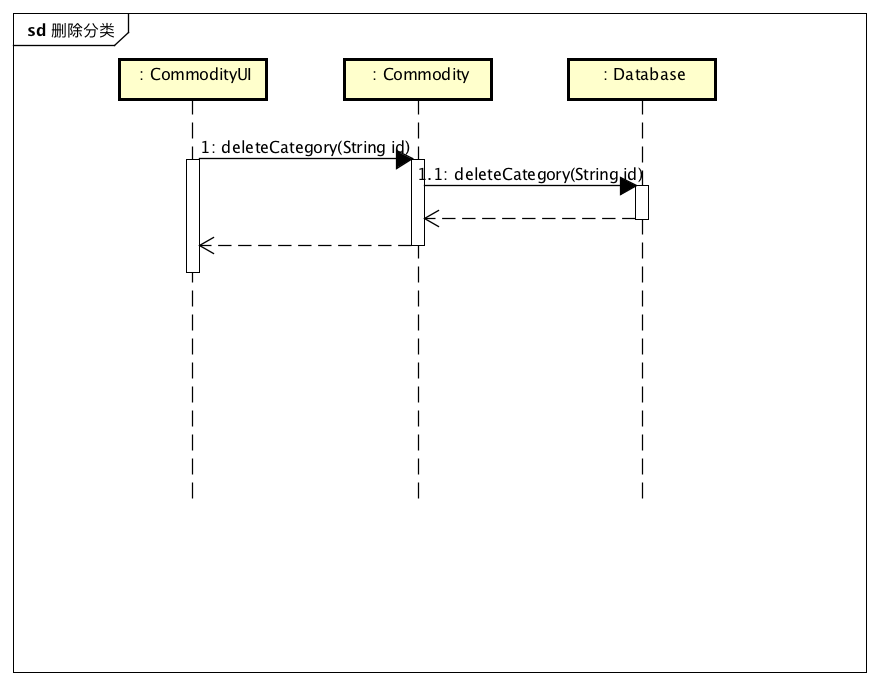
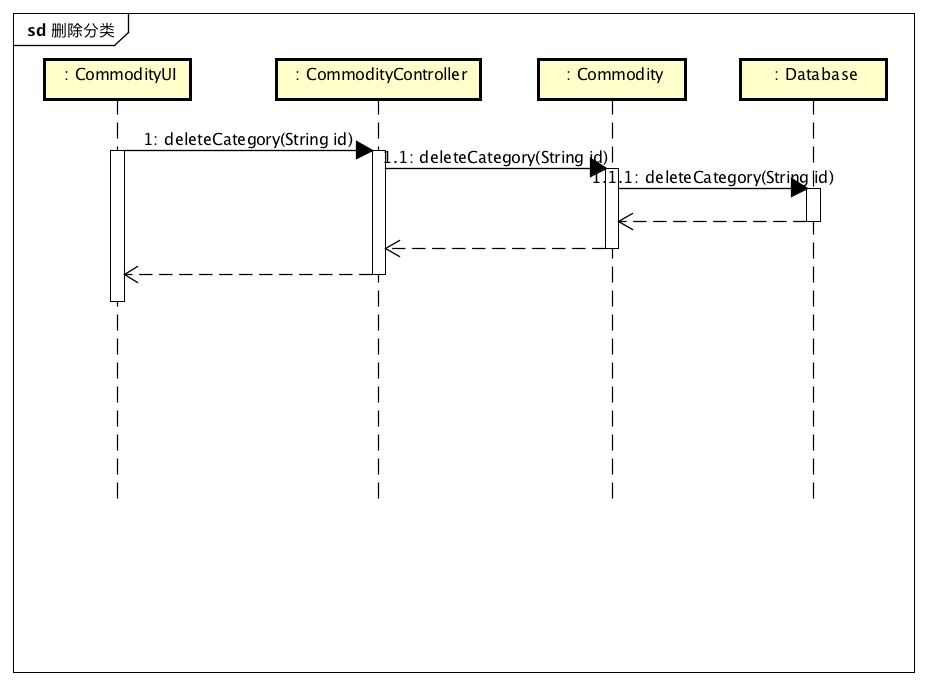
修改商品、商品分类部分所有顺序图，保持文档和顺序图完全一致

diff --git a/document/库存管理人员详细设计.md b/document/库存管理人员详细设计.md
@@ -88,12 +88,12 @@ Commodity类的接口规范：
   | CommodityDataService.findById(String id) | 根据ID得到商品数据对象       |
   | CommodityDataService.add(CommodityPO po) | 插入单一商品持久化对象        |
   | CommodityDataService.update(CommodityPO po) | 更新单一商品持久化对象        |
-  | CommodityDataService.delete(String id)   | 删除单一商品持久化对象        |
+  | CommodityDataService.deleteCommodity(String id) | 删除单一商品持久化对象        |
   | CommodityDataService.findByName(String name) | 根据名称查找多个持久化对象      |
   | CommodityDataService.getAllCommodityCategory() | 获取所有商品分类持久化对象      |
   | CommodityDataServcie.add(CommodityCategoryPO po) | 插入单一商品分类持久化对象      |
   | CommodityDataService.update(CommodityCategoryPO po) | 更新单一商品分类持久化对象      |
-  | CommodityDataServcie.delete(String id)   | 删除单一商品分类持久化对象      |
+  | CommodityDataServcie.deleteCategory(String id) | 删除单一商品分类持久化对象      |
 
 ##### 
 
